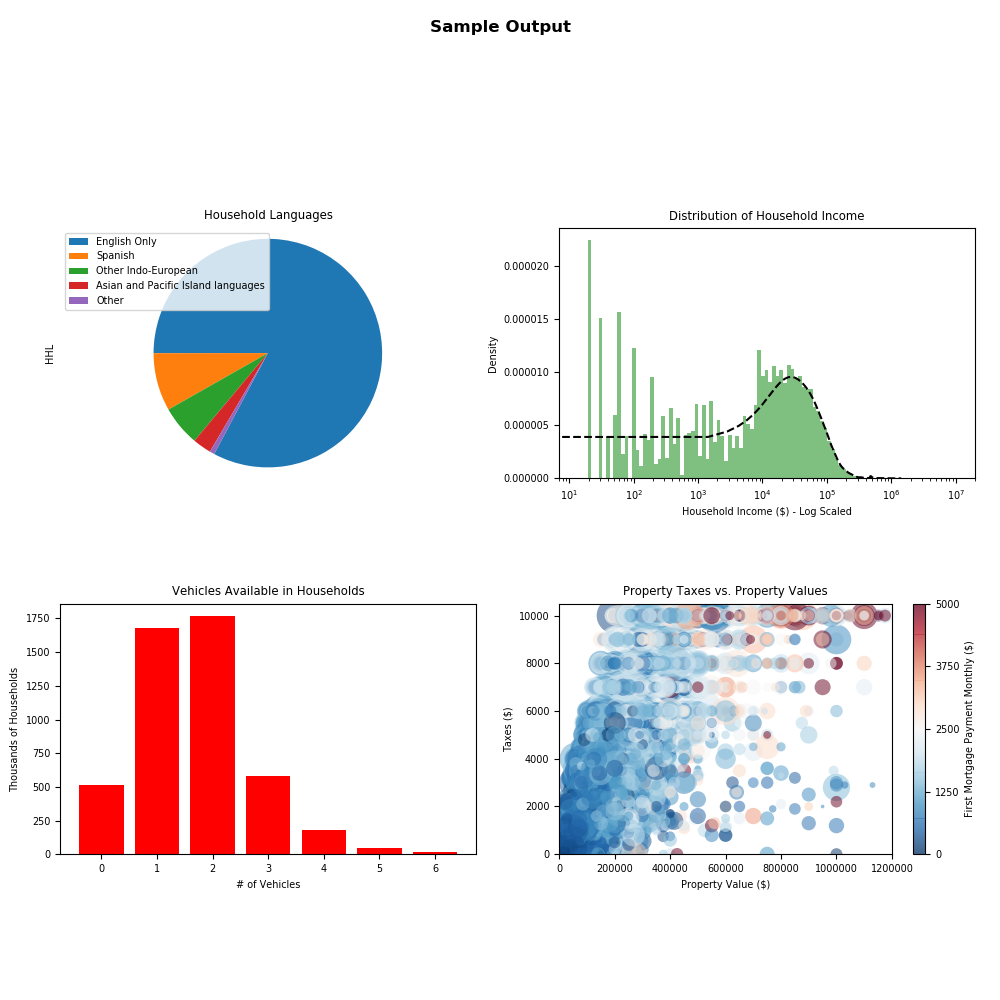
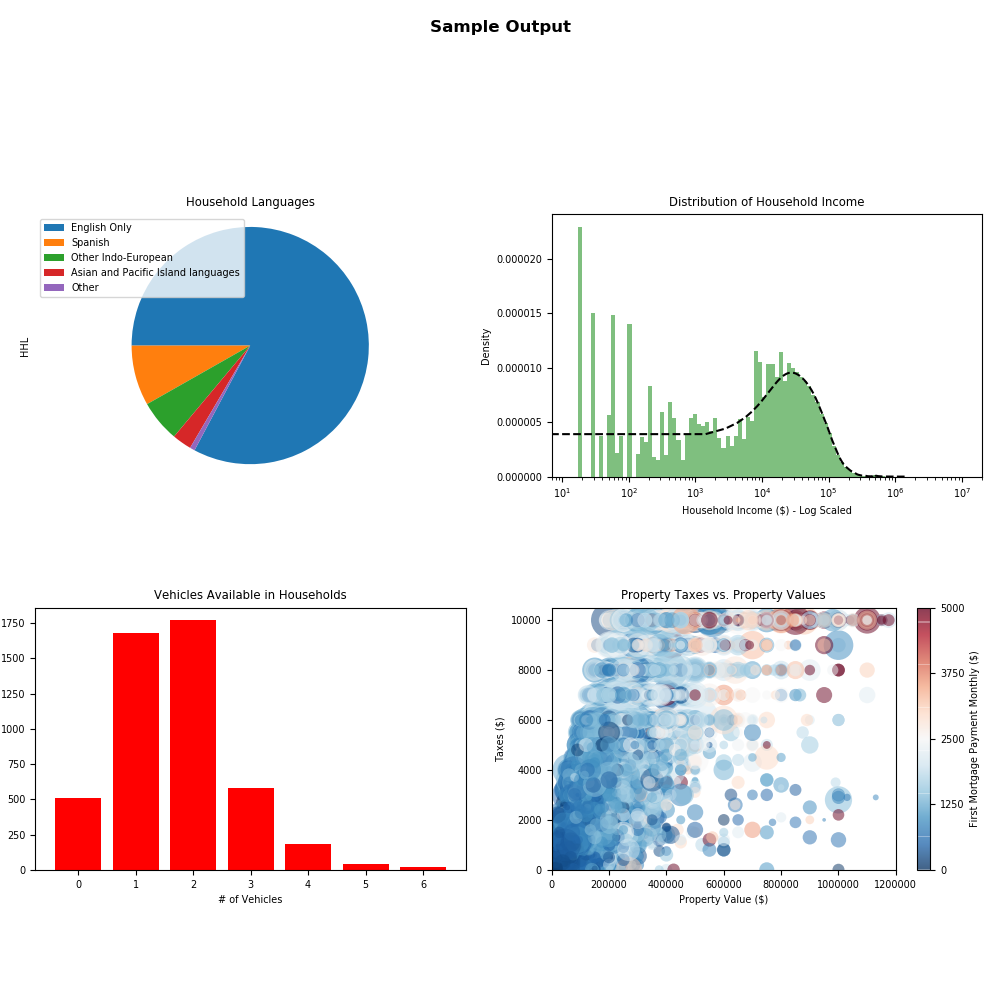
Organized several sections of code, cleaned up comments and unnecessary code.

diff --git a/Week6/vispums.py b/Week6/vispums.py
@@ -12,33 +12,22 @@ import matplotlib.pyplot as plt
 import numpy as np
 from scipy.stats import gaussian_kde
 
-#Read .csv file into panda dataframe
+# Read .csv file into panda dataframe
 pums_df = pd.read_csv('ss13hil.csv', header=0, usecols=['HHL','HINCP','WGTP', 'VEH','TAXP','VALP', 'MRGP'], skip_blank_lines=True)
 
-
-
-HHLvalcount = pums_df.HHL.value_counts()
-WGTPvalcount = pums_df.WGTP.value_counts()
-VEHvalcount = pums_df.VEH.value_counts()
-# print(VEHvalcount)
-# print(WGTPvalcount)
-
-
-# close open plots
-plt.close('all')
-
-# set fontsize in all subplots
+# General plot layout adjustments.
 plt.rcParams.update({'font.size': 7})
+fig1, ax1 = plt.subplots(nrows=2,ncols=2, figsize=(10, 10) )
+plt.tight_layout(rect=[0, 0.1, 1.0, 0.8])
+plt.subplots_adjust(wspace=0.2,hspace=0.5)
 
-fig1, ax1 = plt.subplots(nrows=2,ncols=2, figsize=(10, 10) )#, subplot_kw=dict(aspect="equal"), figsize=(5,5))
-
-# provide the figure super title
+# Provide the figure super title
 fig1.suptitle('Sample Output', fontweight='bold', fontsize=12)
 
-
 # Begin Plot 1 - Household Languages
-
 labels = ['English Only','Spanish','Other Indo-European','Asian and Pacific Island languages','Other']
+
+HHLvalcount = pums_df.HHL.value_counts()
 
 ax1[0,0].pie(HHLvalcount, autopct=None, startangle=242)
 ax1[0,0].set_ylabel('HHL')
@@ -46,91 +35,35 @@ ax1[0,0].axis('equal')
 ax1[0,0].legend(labels, loc="upper left")
 ax1[0,0].set_title('Household Languages')
 
-# End plot 1 
-
-
 # Begin Plot 2 - Household income on log scale
-
 # Filter out NaN values and low household income values (some incomes are negative)
 income = pums_df['HINCP'][pums_df.HINCP >= 10].dropna()
 
-#fit histogram with with gaussian kde, not sure if we are allowed to use scipy, but other options in pandas and seaborn
+# Create bins in log scale such that they appear even.
+logbins = np.logspace(np.log10(10),np.log10(max(income)), 85)
+ax1[0,1].hist(income, bins=logbins, density=True, color = 'green', alpha=0.5) #Plot Histogram
+
+# Create array of values to execute gauss_fit against and plot fitted kde.
 gauss_fit = gaussian_kde(income) 
+income_range = np.linspace(0, max(income), num= 1000)
+ax1[0,1].plot(income_range, gauss_fit(income_range), '--', color = 'black')
 
-#Create non-equal bin sizes such that they look equal on log scale.
-#Use max value of Household income as end point. Number of steps will be number of bins
-
-logbins = np.logspace(np.log10(10),np.log10(max(income)), 91) #Not sure of the best bin number here
-
-#Create array of values to execute gauss_fit against.
-xs = np.linspace(0, max(income), num= 1000)
-
-
-ax1[0,1].hist(income, bins=logbins, density=True, color = 'green', alpha=0.5)
-ax1[0,1].set_xscale('log') #Set scale to log scale
-ax1[0,1].plot(xs, gauss_fit(xs), '--', color = 'black')
-
+# Format Title, labels, axis scale and axis limits
 ax1[0,1].set_title('Distribution of Household Income')
 ax1[0,1].set_ylabel('Density')
 ax1[0,1].set_xlabel('Household Income ($) - Log Scaled')
+ax1[0,1].set_xscale('log')
 ax1[0,1].set_xlim(7,2*10**7)
 
-
-
-#End Plot 2
-
-
 # Begin Plot 3
-
-vehicles = pums_df['VEH'].dropna()
-
-# loop thru VEH data (NaNs removed) and store the weights in arrays car0, car1, etc. 
-'''car0=[]
-car1=[]
-car2=[]
-car3=[]
-car4=[]
-car5=[]
-car6=[]
-for i in range(0, len(vehicles)):
-    index = vehicles.index[i]
-    car = vehicles[index]
-    # print(car)
-    if car == 0.0:
-        # print(pums_df['WGTP'][index])
-         car0.append(pums_df['WGTP'][index])
-    elif car == 1.0:
-         car1.append(pums_df['WGTP'][index])
-    elif car == 2.0:
-         car2.append(pums_df['WGTP'][index])
-    elif car == 3.0:
-         car3.append(pums_df['WGTP'][index])  
-    elif car == 4.0:
-         car4.append(pums_df['WGTP'][index])                     
-    elif car == 5.0:
-         car5.append(pums_df['WGTP'][index])
-    elif car == 6.0:
-         car6.append(pums_df['WGTP'][index]) 
-                 
-#sum the weights and divide by 1000
-veh_wgt_cnt = [sum(car0)/1000, sum(car1)/1000, sum(car2)/1000, sum(car3)/1000, sum(car4)/1000, sum(car5)/1000, sum(car6)/1000]
-
-#create x axis array
-veh_x_axis = np.sort(VEHvalcount.index)'''
-
-#plot vehicle data
 ax1[1,0].set_title('Vehicles Available in Households')
 ax1[1,0].set_ylabel('Thousands of Households')
 ax1[1,0].set_xlabel('# of Vehicles')
 
-# The loop with the 6 case statements can be replaced by this simple group by operation.
-grouped = pums_df.groupby('VEH')
-cnt = grouped.sum()/1000
-ax1[1,0].bar(cnt.index.values, cnt.WGTP, color='r')
-#ax1[1,0].bar(veh_x_axis, veh_wgt_cnt, color='r')
-
-
-# End Plot 3
+# Use group by operation to sum households with 
+veh_group = pums_df.groupby('VEH')
+cnt_group = veh_group.sum()/1000
+ax1[1,0].bar(cnt_group.index.values, cnt_group.WGTP, color='r')
 
 # Begin Plot 4 
 ax1[1,1].set_title('Property Taxes vs. Property Values')
@@ -139,24 +72,19 @@ ax1[1,1].set_xlabel('Property Value ($)')
 ax1[1,1].set_xlim(0, 1200000)
 ax1[1,1].set_ylim(0, 10500)
 
-#Create map of Yearly Taxes Paid to convert from an integer of 1-68 into Taxes in $
+# Create map of Yearly Taxes Paid to convert from an integer of 1-68 into Taxes paid in $
 TAXP_MAP = [0, 1]+[(i-2)*50 for i in range(3,23)]+[100*(j-22) + 1000 for j in range(23, 63)] +[5500, 6000, 7000, 8000, 9000, 10000]
-#Create column of Taxes paid yearly ($)
+
+# Create column of Taxes paid yearly ($)
 pums_df['TAXP_MAPPED'] = pums_df['TAXP'].apply(lambda x:TAXP_MAP[int(x)-1] if x > 0 else np.nan)
-#Filter down data frame into property values less than $1.2 million
+
+# Filter down data frame into property values less than $1.2 million
 tax_prop = pums_df[pums_df['VALP'] < 1200000]
 
-#Reference scatter plot of Property Value ($) vs Taxes Paid ($)
+# Reference the scatter plot of Property Value ($) vs Taxes Paid ($) and pass reference to fig1
 cax = ax1[1,1].scatter(tax_prop.VALP, tax_prop.TAXP_MAPPED, s = tax_prop.WGTP, marker = 'o', alpha=0.5, c = tax_prop.MRGP, cmap = 'RdBu_r', linewidth = 0.0 )
-
-#Pass reference of scatter plot to fig1.colorbar() 
 fig1.colorbar(cax, alpha = 0.5, ticks = [0,1250,2500,3750,5000], label = "First Mortgage Payment Monthly ($)")
-# End Plot 4
 
-# General plot layout adjustments
-plt.tight_layout(rect=[0, 0.1, 1.0, 0.8])
-plt.subplots_adjust(wspace=0.2,hspace=0.5)
-
-#Save plot to png and show plot
+# Save plot to png and show plot
 plt.savefig("pums.png")
 plt.show()
